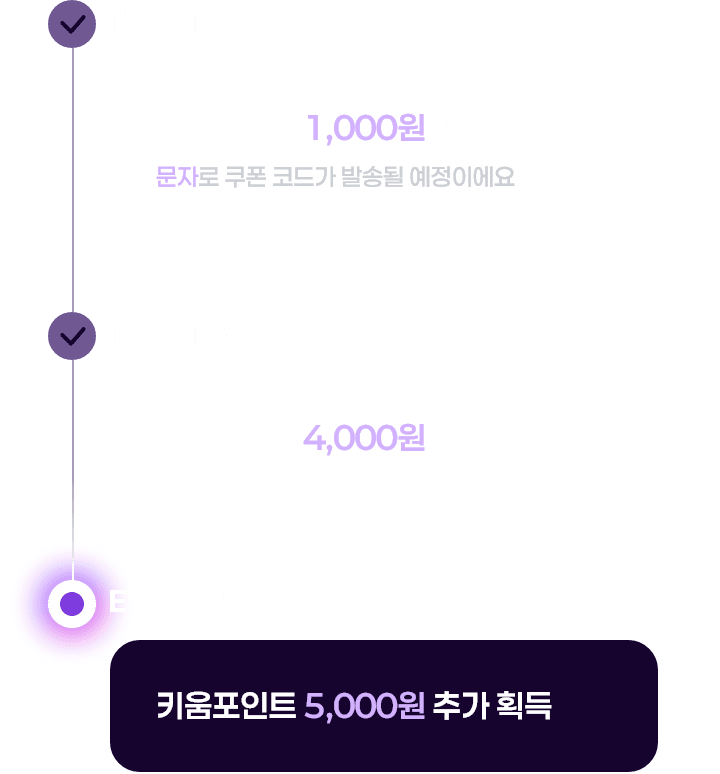
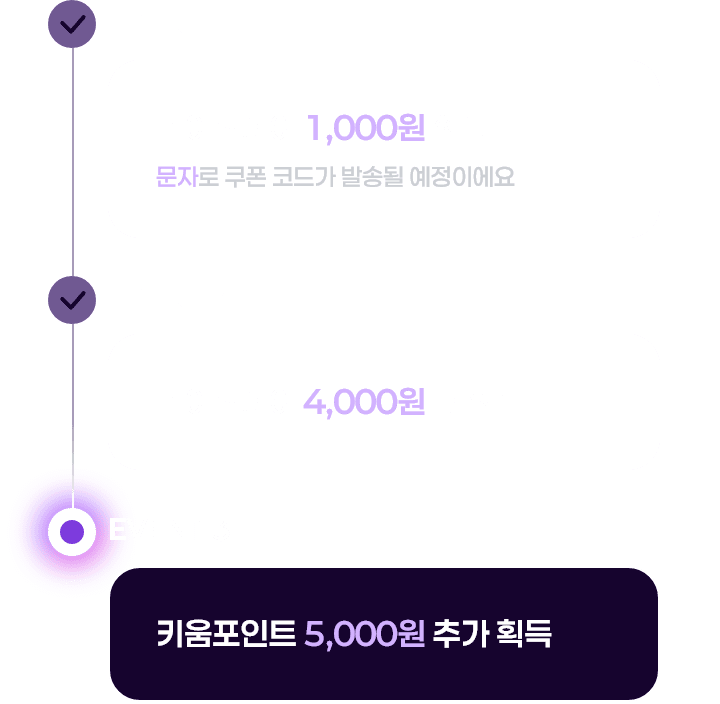
루키모드이벤트 : 수정

diff --git a/rookiemode_event/src/assets/scss/_main.scss b/rookiemode_event/src/assets/scss/_main.scss
@@ -1088,6 +1088,13 @@
                     margin: 0 15rem;
                     border-radius: 30rem;
                 }
+                &:nth-child(1) {
+                    opacity: 0;
+                    animation: first_slide .5s 1s forwards;
+                    @keyframes first_slide {
+                        100% {opacity: 1;}
+                    }
+                }
                 &.swiper-slide-active {
                     img {
                         opacity: 1;
@@ -1316,13 +1323,13 @@
                     left: -28rem;
                     width: 360rem;
                     height: 570rem;
+                    background: url("../images/main_visual_shine.png") no-repeat 0 0 / 100% 100%;
+                    opacity: 0;
                     animation: shine 6s 1s linear forwards;
                     @keyframes shine {
-                        0% {background: transparent;}
-                        5% {background: url("../images/main_visual_shine.png") no-repeat 0 0 / 100% 100%;}
-                        45% {background: url("../images/main_visual_shine.png") no-repeat 0 0 / 100% 100%;}
-                        95% {background: url("../images/main_visual_shine.png") no-repeat 0 0 / 100% 100%;}
-                        100% {background: transparent;}
+                        5% {opacity: 1;}
+                        95% {opacity: 1;}
+                        100% {opacity: 0;}
                     }
                 }
                 @keyframes zoom {
@@ -1350,6 +1357,12 @@
                         overflow: hidden;
                         width: 152rem;
                         animation: change 1.5s 1.5s linear forwards;
+                        @keyframes change {
+                            25% {width: 28rem;}
+                            75% {width: 28rem;}
+                            99% {width: 274rem;}
+                            100% {width: 274rem;}
+                        }
                         &::before {
                             content: "";
                             position: absolute;
@@ -1367,13 +1380,13 @@
                             width: 152rem;
                             height: 534rem;
                             border-right: 2rem solid #9077e8;
-                            animation: change 1.5s 1.5s linear forwards;
-                        }
-                        @keyframes change {
-                            25% {width: 28rem;}
-                            75% {width: 28rem;}
-                            99% {width: 274rem; border-right: 2rem solid #9077e8;}
-                            100% {width: 274rem; border-right: 0;}
+                            animation: change_border 1.5s 1.5s linear forwards;
+                            @keyframes change_border {
+                                25% {width: 28rem;}
+                                75% {width: 28rem;}
+                                99% {width: 274rem; border-right: 2rem solid #9077e8;}
+                                100% {width: 274rem; border-right: 0;}
+                            }
                         }
                         img {
                             position: relative;
@@ -1392,7 +1405,7 @@
                     border: 1rem solid #a591c2;
                     border-radius: 38rem;
                     opacity: 0;
-                    animation: rookie_mode .5s 4.5s forwards;
+                    animation: rookie_mode .5s 4.0s forwards;
                     &::before {
                         content: "";
                         position: absolute;
@@ -2276,11 +2289,18 @@
             height: 24rem;
         }
     }
-    .title_event {
+    .title_event1 {
         padding: 70rem 0 30rem;
         img {
-            width: 244rem;
-            height: 141rem;
+            width: 286rem;
+            height: 160rem;
+        }
+    }
+    .title_event2 {
+        padding: 70rem 0 30rem;
+        img {
+            width: 253rem;
+            height: 160rem;
         }
     }
     .title_naverpay {
@@ -2301,13 +2321,13 @@
         padding: 76rem 0 20rem;
         img {
             width: 306rem;
-            height: 112rem;
+            height: 94rem;
         }
     }
     .complete_event {
         img {
             width: 360rem;
-            height: 387rem;
+            height: 352rem;
         }
     }
     .point {
@@ -2318,8 +2338,8 @@
     }
     .detail {
         width: 360rem;
-        height: 430rem;
-        padding: 96rem 0 0 78rem;
+        height: 380rem;
+        padding: 91rem 0 0 78rem;
         background: url("../images/detail0.png") no-repeat 0 0 / 100% 100%;
         text-align: left;
         &.detail1 {
@@ -2332,13 +2352,20 @@
             background: url("../images/detail3.png") no-repeat 0 0 / 100% 100%;
         }
         li {
-            padding-bottom: 134rem;
+            padding-bottom: 114rem;
             font-size: 12rem;
             color: #cccfd4;
             span {
                 font-size: 12rem;
                 color: #d2b2ff;
             }
+        }
+    }
+    .information {
+        padding-top: 30rem;
+        img {
+            width: 312rem;
+            height: 102rem;
         }
     }
     .btn_bottom {

diff --git a/rookiemode_event/src/assets/css/easymode_event.css b/rookiemode_event/src/assets/css/easymode_event.css
@@ -1107,6 +1107,15 @@ button {
   margin: 0 15rem;
   border-radius: 30rem;
 }
+.main .visual .swiper_visual .swiper-slide:nth-child(1) {
+  opacity: 0;
+  animation: first_slide 0.5s 1s forwards;
+}
+@keyframes first_slide {
+  100% {
+    opacity: 1;
+  }
+}
 .main .visual .swiper_visual .swiper-slide.swiper-slide-active img {
   opacity: 1;
 }
@@ -1355,23 +1364,19 @@ button {
   left: -28rem;
   width: 360rem;
   height: 570rem;
+  background: url("../images/main_visual_shine.png") no-repeat 0 0/100% 100%;
+  opacity: 0;
   animation: shine 6s 1s linear forwards;
 }
 @keyframes shine {
-  0% {
-    background: transparent;
-  }
   5% {
-    background: url("../images/main_visual_shine.png") no-repeat 0 0/100% 100%;
-  }
-  45% {
-    background: url("../images/main_visual_shine.png") no-repeat 0 0/100% 100%;
+    opacity: 1;
   }
   95% {
-    background: url("../images/main_visual_shine.png") no-repeat 0 0/100% 100%;
+    opacity: 1;
   }
   100% {
-    background: transparent;
+    opacity: 0;
   }
 }
 @keyframes zoom {
@@ -1418,6 +1423,20 @@ button {
   width: 152rem;
   animation: change 1.5s 1.5s linear forwards;
 }
+@keyframes change {
+  25% {
+    width: 28rem;
+  }
+  75% {
+    width: 28rem;
+  }
+  99% {
+    width: 274rem;
+  }
+  100% {
+    width: 274rem;
+  }
+}
 .main .visual .keyvisual .zoom .change div::before {
   content: "";
   position: absolute;
@@ -1435,9 +1454,9 @@ button {
   width: 152rem;
   height: 534rem;
   border-right: 2rem solid #9077e8;
-  animation: change 1.5s 1.5s linear forwards;
+  animation: change_border 1.5s 1.5s linear forwards;
 }
-@keyframes change {
+@keyframes change_border {
   25% {
     width: 28rem;
   }
@@ -1468,7 +1487,7 @@ button {
   border: 1rem solid #a591c2;
   border-radius: 38rem;
   opacity: 0;
-  animation: rookie_mode 0.5s 4.5s forwards;
+  animation: rookie_mode 0.5s 4s forwards;
 }
 .main .visual .keyvisual .zoom .rookie_mode::before {
   content: "";
@@ -2329,12 +2348,19 @@ button {
   width: 24rem;
   height: 24rem;
 }
-.complete .title_event {
+.complete .title_event1 {
   padding: 70rem 0 30rem;
 }
-.complete .title_event img {
-  width: 244rem;
-  height: 141rem;
+.complete .title_event1 img {
+  width: 286rem;
+  height: 160rem;
+}
+.complete .title_event2 {
+  padding: 70rem 0 30rem;
+}
+.complete .title_event2 img {
+  width: 253rem;
+  height: 160rem;
 }
 .complete .title_naverpay {
   padding: 40rem 0 34rem;
@@ -2355,11 +2381,11 @@ button {
 }
 .complete .title_detail img {
   width: 306rem;
-  height: 112rem;
+  height: 94rem;
 }
 .complete .complete_event img {
   width: 360rem;
-  height: 387rem;
+  height: 352rem;
 }
 .complete .point img {
   width: 292rem;
@@ -2367,8 +2393,8 @@ button {
 }
 .complete .detail {
   width: 360rem;
-  height: 430rem;
-  padding: 96rem 0 0 78rem;
+  height: 380rem;
+  padding: 91rem 0 0 78rem;
   background: url("../images/detail0.png") no-repeat 0 0/100% 100%;
   text-align: left;
 }
@@ -2382,13 +2408,20 @@ button {
   background: url("../images/detail3.png") no-repeat 0 0/100% 100%;
 }
 .complete .detail li {
-  padding-bottom: 134rem;
+  padding-bottom: 114rem;
   font-size: 12rem;
   color: #cccfd4;
 }
 .complete .detail li span {
   font-size: 12rem;
   color: #d2b2ff;
+}
+.complete .information {
+  padding-top: 30rem;
+}
+.complete .information img {
+  width: 312rem;
+  height: 102rem;
 }
 .complete .btn_bottom {
   position: fixed;

diff --git a/rookiemode_event/src/html/main.html b/rookiemode_event/src/html/main.html
@@ -85,13 +85,23 @@
                     </ul>
                     <p class="event">[이벤트2]</p>
                     <ul>
-                        <li class="red">이벤트1 신청 시점 이후, 2025년 10월 31일까지 루키모드 접속을 완료해야만 경품 네이버페이포인트 4,000원이 지급됩니다.</li>
+                        <li class="red">이벤트1 신청 시점 이후, 2025년 10월 31일까지 루키모드 로그인 후 접속을 완료해야만 경품 네이버페이포인트 4,000원이 지급됩니다.</li>
                         <li>법인고객은 지급 대상에서 제외됩니다.</li>
                         <li>비거주자, 재외국민, 외국인은 미국주식 거래 불가하며, 비대면계좌를 생성하여 이벤트에 신청하였더라도 당사 정책으로 인해 지급 대상에서 제외됩니다.</li>
                         <li>이벤트1을 먼저 신청한 고객에 한해 참여 가능합니다.</li>
                         <li>이벤트1 참여 이전에 루키모드에 접속한 기록은 이벤트2의 조건 충족으로 인정되지 않습니다.</li>
-                        <li>이벤트2 경품은 고객고유번호로 1회 지급되며, 중복 지급되지 않습니다.</li>
-                        <li>고객번호란 고객님의 소중한 정보보호를 위하여 주민번호를 대체하여 당사에서 부여한 고유번호를 의미합니다.</li>
+                        <li>이벤트2 경품은 고객고유번호 으로 1회 지급되며, 중복 지급되지 않습니다.</li>
+                        <li>고객번호란 고객님의 소중한 정보보호를 위하여 주민번호 대체하여 당사에서 부여한 고유번호를 의미합니다.</li>
+                    </ul>
+                    <p class="event">[이벤트3]</p>
+                    <ul>
+                        <li class="red">이벤트1, 이벤트2 참여 시점 이후, 2025년 10월 31일까지 루키모드에서 거래를 완료해야만 경품 키움포인트 5,000원이 지급됩니다.</li>
+                        <li>법인고객은 지급 대상에서 제외됩니다.</li>
+                        <li>비거주자, 재외국민, 외국인은 미국주식 거래 불가하며, 비대면계좌를 생성하여 이벤트에 신청하였더라도 당사 정책으로 인해 지급 대상에서 제외됩니다.</li>
+                        <li>이벤트1, 이벤트2을 먼저 신청한 고객에 한해 참여 가능합니다.</li>
+                        <li>이벤트1, 이벤트2 참여 이전에 루키모드에서 거래한 기록은 이벤트3의 조건 충족으로 인정되지 않습니다.</li>
+                        <li>이벤트3 경품은 고객고유번호 으로 1회 지급되며, 중복 지급되지 않습니다.</li>
+                        <li>고객번호란 고객님의 소중한 정보보호를 위하여 주민번호 대체하여 당사에서 부여한 고유번호를 의미합니다.</li>
                     </ul>
                 </dd>
                 <dt>공통사항</dt>

diff --git a/rookiemode_event/src/html/complete_event2.html b/rookiemode_event/src/html/complete_event2.html
@@ -31,9 +31,12 @@
 <body>
     <div class="wrap complete">
         <button type="button" class="btn_close"><img src="../assets/images/btn_close.png" alt="닫기"></button>
-        <div class="title_event"><img src="../assets/images/title_complete_event2.png" alt="루키모드에서 거래하고 5,000원 더 받으세요"></div>
+        <div class="title_event2"><img src="../assets/images/title_complete_event2.png" alt="루키모드에서 거래하고 5,000원 더 받으세요"></div>
         <div class="complete_event"><img src="../assets/images/complete_event2.png" alt="네이버페이 1,000원 획득, 네이버페이 4,000원 획득"></div>
-        <button type="button" class="btn_bottom"><img src="../assets/images/btn_rookie.png" alt="루키모드로 이동하기"></button>
+        <div class="btn_bottom2">
+            <button type="button" class="btn_account"><img src="../assets/images/btn_account.png" alt="계좌개설하기"></button>
+            <button type="button" class="btn_rookie"><img src="../assets/images/btn_rookie2.png" alt="루키모드 거래하기"></button>
+        </div>
     </div>
     
     <script src="../assets/js/jquery-3.3.1.min.js"></script>

diff --git a/rookiemode_event/src/html/complete_event1.html b/rookiemode_event/src/html/complete_event1.html
@@ -31,9 +31,12 @@
 <body>
     <div class="wrap complete">
         <button type="button" class="btn_close"><img src="../assets/images/btn_close.png" alt="닫기"></button>
-        <div class="title_event"><img src="../assets/images/title_complete_event1.png" alt="루키모드에서 거래하고 9,000원 더 받으세요"></div>
+        <div class="title_event1"><img src="../assets/images/title_complete_event1.png" alt="루키모드에서 거래하고 9,000원 더 받으세요"></div>
         <div class="complete_event"><img src="../assets/images/complete_event1.png" alt="네이버페이 1,000원 획득"></div>
-        <button type="button" class="btn_bottom"><img src="../assets/images/btn_rookie.png" alt="루키모드로 이동하기"></button>
+        <div class="btn_bottom2">
+            <button type="button" class="btn_account"><img src="../assets/images/btn_account.png" alt="계좌개설하기"></button>
+            <button type="button" class="btn_rookie"><img src="../assets/images/btn_rookie2.png" alt="루키모드 거래하기"></button>
+        </div>
     </div>
     
     <script src="../assets/js/jquery-3.3.1.min.js"></script>

diff --git a/rookiemode_event/src/html/complete_detail0.html b/rookiemode_event/src/html/complete_detail0.html
@@ -34,6 +34,7 @@
         <div class="title_detail"><img src="../assets/images/title_detail.png" alt="참여내역을 확인해보세요"></div>
         <ul class="detail detail0">
         </ul>
+        <div class="information"><img src="../assets/images/information.png" alt="알아두세요!"></div>
         <button type="button" class="btn_bottom" onclick="location.href='main.html'"><img src="../assets/images/btn_ok.png" alt="확인"></button>
     </div>
     

diff --git a/rookiemode_event/src/html/complete_detail2.html b/rookiemode_event/src/html/complete_detail2.html
@@ -36,6 +36,7 @@
             <li><span>2025. 09. 28</span>일에 참여 완료 했어요</li>
             <li><span>2025. 09. 29</span>일에 참여 완료 했어요</li>
         </ul>
+        <div class="information"><img src="../assets/images/information.png" alt="알아두세요!"></div>
         <button type="button" class="btn_bottom" onclick="location.href='main.html'"><img src="../assets/images/btn_ok.png" alt="확인"></button>
     </div>
     

diff --git a/rookiemode_event/src/html/complete_detail3.html b/rookiemode_event/src/html/complete_detail3.html
@@ -37,6 +37,7 @@
             <li><span>2025. 09. 29</span>일에 참여 완료 했어요</li>
             <li><span>2025. 10. 02</span>일에 참여 완료 했어요</li>
         </ul>
+        <div class="information"><img src="../assets/images/information.png" alt="알아두세요!"></div>
         <button type="button" class="btn_bottom" onclick="location.href='main.html'"><img src="../assets/images/btn_ok.png" alt="확인"></button>
     </div>
     

diff --git a/rookiemode_event/src/html/complete_detail1.html b/rookiemode_event/src/html/complete_detail1.html
@@ -35,6 +35,7 @@
         <ul class="detail detail1">
             <li><span>2025. 09. 28</span>일에 참여 완료 했어요</li>
         </ul>
+        <div class="information"><img src="../assets/images/information.png" alt="알아두세요!"></div>
         <button type="button" class="btn_bottom" onclick="location.href='main.html'"><img src="../assets/images/btn_ok.png" alt="확인"></button>
     </div>
     
